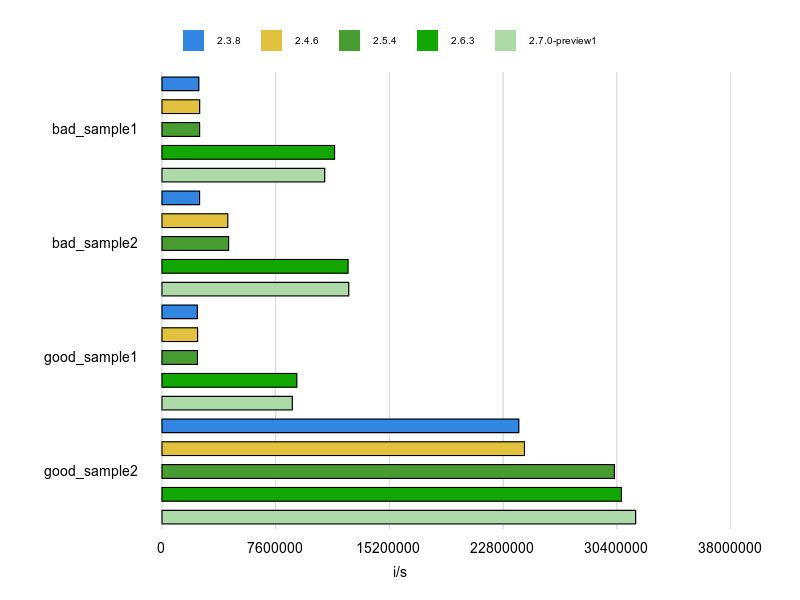
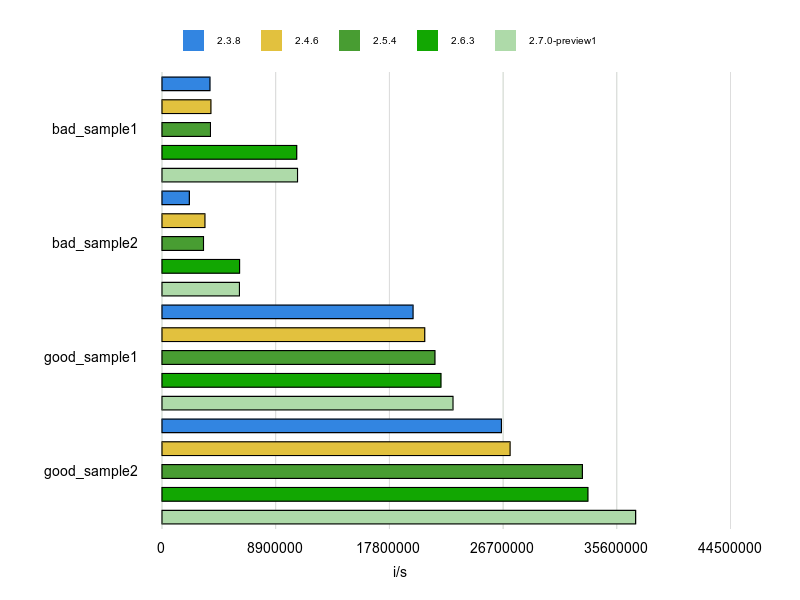
improve CaseWhenSplat

diff --git a/benchmarks/case-when-splat.rb b/benchmarks/case-when-splat.rb
@@ -13,54 +13,48 @@ Benchmark.driver(output: output) do |x|
   x.rbenv *versions
 
   x.prelude <<~RUBY
+    BAR = 2
+    BAZ = 3
+    FOOBAR = 4
+    CONDITION = [1, 2, 3, 4]
+
     def bad_sample1
-      foo = 1
-      bar = 2
-      baz = 3
-      condition = [1, 2, 3, 4]
-      foo = 1
+      foo = BAZ
       case foo
-      when *condition
-        bar
-      when baz
-        foobar
+      when *CONDITION
+        BAR
+      when BAZ
+        FOOBAR
       end
     end
 
     def bad_sample2
-      foo = 1
-      bar = 2
-      baz = 3
+      foo = 5
       case foo
       when *[1, 2, 3, 4]
-        bar
-      when baz
-        foobar
+        BAR
+      when 5
+        FOOBAR
       end
     end
 
     def good_sample1
-      foo = 1
-      bar = 2
-      baz = 3
-      condition = [1, 2, 3, 4]
+      foo = BAZ
       case foo
-      when baz
-        foobar
-      when *condition
-        bar
+      when BAZ
+        FOOBAR
+      when *CONDITION
+        BAR
       end
     end
 
     def good_sample2
-      foo = 1
-      bar = 2
-      baz = 3
+      foo = 5
       case foo
       when 1, 2, 3, 4
-        bar
+        BAR
       when 5
-        baz
+        BAZ
       end
     end
   RUBY
